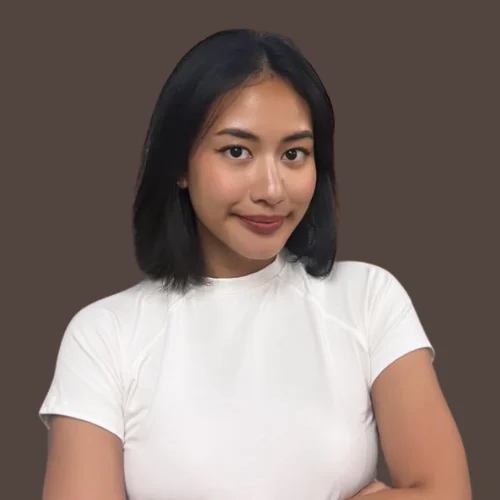
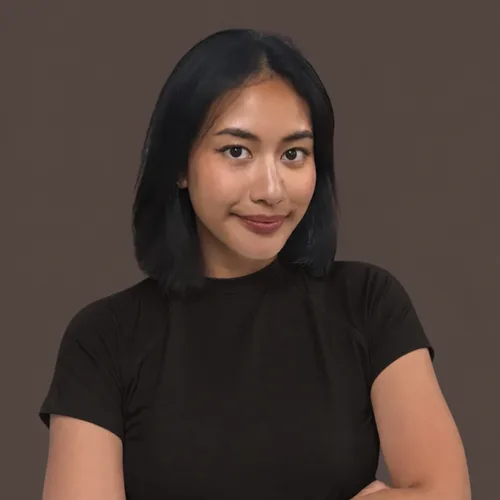
Complete Batch 1 graduate portraits

Changed region(s): [[0.06, 0.48, 0.87, 1.0]]

diff --git a/docs/source-inventory.md b/docs/source-inventory.md
@@ -4,7 +4,8 @@
 |---|---|---|
 | Definitive Batch 1 roster | User-provided list, 1 Aug 2026 | `src/_data/graduates.json` |
 | Graduate portrait folder | User-provided Google Drive folder | Anonymous camera filenames; superseded for Batch 1 and not published |
-| Eleven labelled graduate portraits | `https://nadpilatesbarre.my.canva.site/bentangbahagiaxashta-partnership` plus owner reuse direction, 1 Aug 2026 | Local WebP portraits for every Batch 1 graduate represented in the proposal; Noor remains pending |
+| Eleven labelled graduate portraits | `https://nadpilatesbarre.my.canva.site/bentangbahagiaxashta-partnership` plus owner reuse direction, 1 Aug 2026 | Local WebP portraits for every Batch 1 graduate represented in the proposal; pale garment fabric on Aisha, Angie and Jane adapted to campaign ink at the owner's direction, 2 Aug 2026 |
+| Noor Anugrahandina portrait | Owner-provided Google Photos file `IMG_4650.jpg`, identified by the owner, 2 Aug 2026 | Local square WebP portrait for Noor's Batch 1 roster card; studio background adapted to the roster's campaign-brown field |
 | Batch 1 recap reel | `https://www.instagram.com/p/DZgQQQ0TQ_A/` | Training hero frame, campaign mark and tone |
 | Reel ownership | Public Instagram profile data, read 1 Aug 2026 | Reel is owned by `@getfitwitheboonad` and co-authored by `@eboonad` |
 | Batch 1 workshop facts | Nadya Rudianto's public LinkedIn post, read 1 Aug 2026 | Strong Hot Pilates ran 05–07 Jun 2026, 09:00–16:00, at Union Yoga, led by Nadya |

diff --git a/docs/design-decisions.md b/docs/design-decisions.md
@@ -61,11 +61,17 @@ folder remains unassigned. On 1 Aug 2026, the owner instead directed the site to
 reuse portraits from the labelled certified-team grid in the Bentang Bahagia x
 Ashta partnership proposal. Eleven proposal labels correspond to the confirmed
 Batch 1 roster; their source labels remain in `graduates.json` while the
-definitive roster names control public presentation. Noor Anugrahandina is not
-represented in that proposal and retains the designed initial placeholder. The
-geometric lines belong only to that pending-photo placeholder and never overlay
-confirmed photography. The site must never infer an identity from facial
+definitive roster names control public presentation. On 2 Aug 2026, the owner
+identified the Google Photos file `IMG_4650.jpg` as Noor Anugrahandina; that
+explicit mapping supplies the twelfth portrait. Its studio background is
+adapted to the same campaign-brown field as the proposal portraits so the card
+belongs to the set. The site must never infer an identity from facial
 similarity.
+
+At the owner's direction on 2 Aug 2026, the pale garment fabric in Aisha
+Kirana's, Angie Ayu Natasha's and Jane Haryono's portraits is adapted to the
+campaign's dark ink. Each original garment silhouette remains intact; no logo
+is added, keeping Noor from becoming the only graduate without branded apparel.
 
 ## Content boundary
 

diff --git a/README.md b/README.md
@@ -32,8 +32,8 @@ local-asset checks.
 - `_site/` — generated output; never edit directly
 
 Eleven graduate portraits come from the labelled Bentang Bahagia x Ashta
-proposal. Noor Anugrahandina retains an intentional initial placeholder until a
-source-labelled portrait is available.
+proposal. Noor Anugrahandina's portrait comes from the owner-provided Google
+Photos file `IMG_4650.jpg`, identified by the owner on 2 Aug 2026.
 
 ## GitHub Pages review
 
